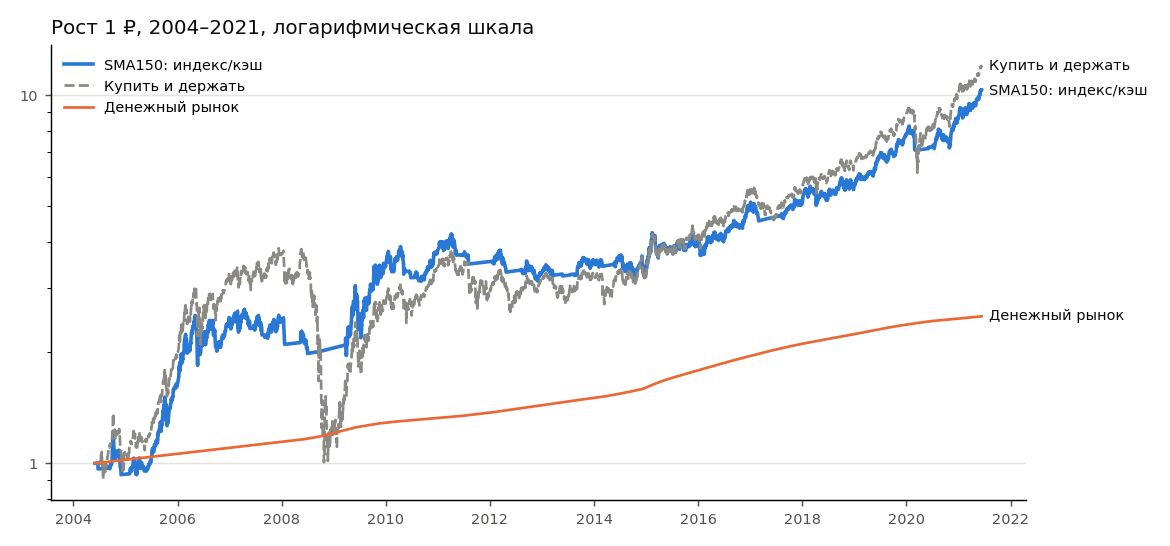
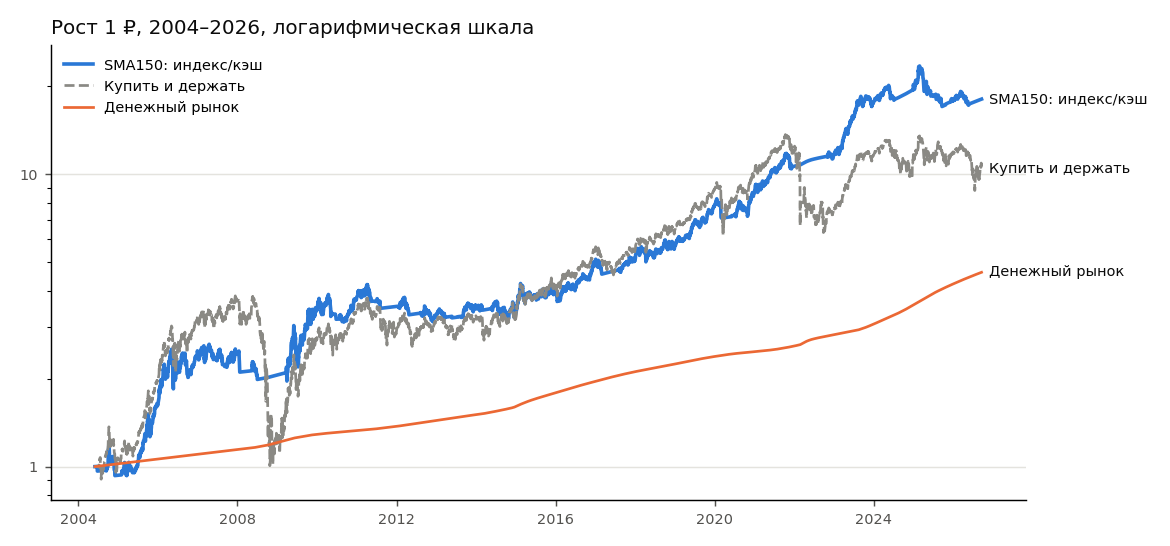
feat: проверка на данных 2021–2026, учёт сплитов, ключевая ставка до 2026, моментум выключен
Claude-Session: https://claude.ai/code/session_01Gvh3BNu2sLBrMCH2KCLBQt

diff --git a/research/report.py b/research/report.py
@@ -27,7 +27,7 @@ BLUE, GRAY, ORANGE, INK, MUTE = "#2a78d6", "#8a8984", "#eb6834", "#0b0b0b", "#52
 
 
 def fmt_table(rows: list[dict], cols: list[str]) -> str:
-    pct = {"CAGR", "MaxDD", "Vol", "Худший год", "Мес.в плюсе", "Доля в риске"}
+    pct = {"CAGR", "MaxDD", "Vol", "Худший год", "Мес.в плюсе", "Доля в риске", "MaxDD 2021–26"}
     out = ["| " + " | ".join(cols) + " |", "|" + "---|" * len(cols)]
     for r in rows:
         cells = []
@@ -75,7 +75,8 @@ def main() -> None:
     md: list[str] = []
     # ---------- 1. Тайминг индекса, 2004–2021 ----------
     mi = index_only_market()
-    periods = {"2004–2012 (подбор)": ("2004-06-01", "2012-12-31"), "2013–2021 (проверка)": ("2013-01-01", None)}
+    periods = {"2004–2012 (подбор)": ("2004-06-01", "2012-12-31"), "2013–2021.06 (проверка)": ("2013-01-01", "2021-06-11"),
+               "2021.06–2026 (новые данные)": ("2021-06-14", None)}
     strats = [S.buy_hold_index(), S.cash_only()] + [S.index_sma(n) for n in (50, 100, 150, 200, 250)] + \
              [S.index_abs_momentum(n) for n in (63, 126, 252)]
     res_idx = {s.name: run_backtest(s, mi, "2004-06-01") for s in strats}
@@ -85,12 +86,12 @@ def main() -> None:
             sm = summary(r.equity.loc[a:b])
             rows.append({"Стратегия": name, "Период": lab, **sm, "Доля в риске": r.exposure.loc[a:b].mean()})
     rows.sort(key=lambda x: (x["Период"], -x["Calmar"] if x["Calmar"] == x["Calmar"] else 0))
-    md.append("## 1. Тайминг индекса: фонд на индекс ↔ денежный рынок (2004–2021)\n")
+    md.append("## 1. Тайминг индекса: фонд на индекс ↔ денежный рынок (2004–2026)\n")
     md.append(fmt_table(rows, ["Стратегия", "Период", "CAGR", "MaxDD", "Sharpe", "Calmar", "Худший год", "Доля в риске"]))
     line_chart({"SMA150: индекс/кэш": res_idx["Индекс выше SMA150"].equity,
                 "Купить и держать": res_idx["Купить и держать индекс"].equity,
                 "Денежный рынок": res_idx["Только денежный рынок"].equity},
-               "Рост 1 ₽, 2004–2021, логарифмическая шкала", IMG / "index_timing.png")
+               "Рост 1 ₽, 2004–2026, логарифмическая шкала", IMG / "index_timing.png")
     md.append("\n![Тайминг индекса](img/index_timing.png)\n")
 
     # ---------- 2. Акции, 2014–2021 ----------
@@ -101,24 +102,30 @@ def main() -> None:
     res_st = {s.name: run_backtest(s, m, "2014-06-01") for s in stock_strats}
     rows = []
     for name, r in res_st.items():
-        a, b = summary(r.equity.loc[:"2017-12-31"]), summary(r.equity.loc["2018-01-01":])
+        a, b = summary(r.equity.loc[:"2017-12-31"]), summary(r.equity.loc["2018-01-01":"2021-06-11"])
+        c = summary(r.equity.loc["2021-06-14":])
         rows.append({"Стратегия": name, "Sharpe 2014–17": a["Sharpe"], "Sharpe 2018–21": b["Sharpe"],
-                     "CAGR 2014–17": f"{a['CAGR']:.1%}", "CAGR 2018–21": f"{b['CAGR']:.1%}",
-                     "MaxDD": min(a["MaxDD"], b["MaxDD"])})
-    rows.sort(key=lambda x: -(x["Sharpe 2014–17"] + x["Sharpe 2018–21"]))
-    md.append("\n## 2. Стратегии на акциях (2014–2021, без дивидендов)\n")
-    md.append(fmt_table(rows, ["Стратегия", "Sharpe 2014–17", "Sharpe 2018–21", "CAGR 2014–17", "CAGR 2018–21", "MaxDD"]))
+                     "Sharpe 2021–26": c["Sharpe"], "CAGR 2014–17": f"{a['CAGR']:.1%}",
+                     "CAGR 2018–21": f"{b['CAGR']:.1%}", "CAGR 2021–26": f"{c['CAGR']:.1%}",
+                     "MaxDD 2021–26": c["MaxDD"]})
+    rows.sort(key=lambda x: -x["Sharpe 2021–26"])
+    md.append("\n## 2. Стратегии на акциях (2014–2026, без дивидендов)\n")
+    md.append(fmt_table(rows, ["Стратегия", "Sharpe 2014–17", "Sharpe 2018–21", "Sharpe 2021–26", "CAGR 2014–17",
+                               "CAGR 2018–21", "CAGR 2021–26", "MaxDD 2021–26"]))
     mom = res_st["Моментум акций 126д top5"].equity
     line_chart({"Моментум top5": mom, "Индекс (с дивидендами)": res_st["Купить и держать индекс"].equity},
-               "Моментум акций vs индекс, 2014–2021", IMG / "momentum.png")
+               "Моментум акций vs индекс, 2014–2026", IMG / "momentum.png")
     md.append("\n![Моментум](img/momentum.png)\n")
 
     # ---------- 3. Правила вывода ----------
     rules_set = {"без правил": RiskRules(None, 0, None), "только вывод 50% при +15%": RiskRules(None, 0, 0.15, 0.5),
                  "стоп 20% + вывод": RiskRules(0.20, 21, 0.15, 0.5)}
-    cases = {"Тайминг SMA150 (2004–2021)": res_idx["Индекс выше SMA150"].equity,
-             "Купить и держать индекс (2004–2021)": res_idx["Купить и держать индекс"].equity,
-             "Моментум top5 (2014–2021)": mom}
+    cases = {"Тайминг SMA150 (2004–2026)": res_idx["Индекс выше SMA150"].equity,
+             "Купить и держать индекс (2004–2026)": res_idx["Купить и держать индекс"].equity,
+             "Моментум top5 (2014–2026)": mom,
+             "Тайминг SMA150 (2021.06–2026)": res_idx["Индекс выше SMA150"].equity.loc["2021-06-14":],
+             "Купить и держать (2021.06–2026)": res_idx["Купить и держать индекс"].equity.loc["2021-06-14":],
+             "Денежный рынок (2021.06–2026)": res_idx["Только денежный рынок"].equity.loc["2021-06-14":]}
     rows = []
     for cname, e in cases.items():
         r = e.pct_change().fillna(0)

diff --git a/src/tradebot/data.py b/src/tradebot/data.py
@@ -20,10 +20,35 @@ class Market:
         return Market(self.close.loc[:asof], self.value.loc[:asof], self.index.loc[:asof])
 
 
+SPLIT_LOW, SPLIT_HIGH = 0.4, 2.5   # скачок цены за день за этими пределами считаем сплитом/консолидацией
+
+
+def adjust_splits(close: pd.DataFrame) -> tuple[pd.DataFrame, list[tuple]]:
+    """Убирает скачки цены от сплитов (напр. GMKN, TRNFP 2024) и консолидаций (VTBR 2024):
+    цены ДО события умножаются на коэффициент. Возвращает (цены, список событий)."""
+    out, events = close.copy(), []
+    ratio = close / close.ffill().shift(1)
+    for t in close.columns:
+        r = ratio[t]
+        for d, v in r[(r < SPLIT_LOW) | (r > SPLIT_HIGH)].items():
+            if not _looks_like_split(float(v)):
+                continue                      # настоящий обвал/взлёт (напр. POGR 2022) — не трогаем
+            out.loc[:d - pd.Timedelta(days=1), t] *= v
+            events.append((t, d.date(), round(float(v), 4)))
+    return out, events
+
+
+def _looks_like_split(v: float) -> bool:
+    """Коэффициент сплита обычно «круглый»: 2, 3, 5, 10, 100, 1000, 5000…"""
+    f = v if v >= 1 else 1 / v
+    nice = [2, 3, 4, 5, 10, 20, 25, 50, 100, 200, 500, 1000, 2000, 5000, 10000]
+    return any(abs(f / n - 1) < (0.03 if n < 10 else 0.10) for n in nice)
+
+
 def load_market(start: str = "2014-01-01", data_dir: Path = DATA_DIR) -> Market:
     s = pd.read_parquet(data_dir / "shares_daily.parquet")
     s = s[s.date >= start]
-    close = s.pivot(index="date", columns="ticker", values="close").sort_index()
+    close, _ = adjust_splits(s.pivot(index="date", columns="ticker", values="close").sort_index())
     value = s.pivot(index="date", columns="ticker", values="value").reindex(close.index)
     idx = pd.read_parquet(data_dir / "index_daily.parquet")
     idx = idx.reindex(close.index).ffill()

diff --git a/src/tradebot/rates.py b/src/tradebot/rates.py
@@ -21,6 +21,16 @@ KEY_RATE_CHANGES: list[tuple[str, float]] = [
     ("2019-06-17", 7.50), ("2019-07-29", 7.25), ("2019-09-09", 7.00), ("2019-10-28", 6.50),
     ("2019-12-16", 6.25), ("2020-02-10", 6.00), ("2020-04-27", 5.50), ("2020-06-22", 4.50),
     ("2020-07-27", 4.25), ("2021-03-22", 4.50), ("2021-04-26", 5.00), ("2021-06-15", 5.50),
+    ("2021-07-26", 6.50), ("2021-09-13", 6.75), ("2021-10-25", 7.50), ("2021-12-20", 8.50),
+    ("2022-02-14", 9.50), ("2022-02-28", 20.00), ("2022-04-11", 17.00), ("2022-05-04", 14.00),
+    ("2022-05-27", 11.00), ("2022-06-14", 9.50), ("2022-07-25", 8.00), ("2022-09-19", 7.50),
+    ("2023-07-24", 8.50), ("2023-08-15", 12.00), ("2023-09-18", 13.00), ("2023-10-30", 15.00),
+    ("2023-12-18", 16.00), ("2024-07-29", 18.00), ("2024-09-16", 19.00), ("2024-10-28", 21.00),
+    ("2025-06-09", 20.00), ("2025-07-28", 18.00), ("2025-09-15", 17.00), ("2025-10-27", 16.50),
+    ("2025-12-22", 16.00),
+    # 2026: по данным СМИ — пять снижений до 14% к июлю (11.09.2026 сохранена 14%); промежуточные шаги — оценка
+    ("2026-02-16", 15.50), ("2026-03-23", 15.00), ("2026-04-27", 14.75), ("2026-06-08", 14.50),
+    ("2026-07-27", 14.00),
 ]
 
 MONEY_MARKET_FEE = 1.2  # % годовых — расходы фонда денежного рынка (TMON@ ≈ 1,2%)

diff --git a/tests/test_engine.py b/tests/test_engine.py
@@ -92,3 +92,13 @@ def test_overlay_total_wealth_consistent():
     acc, taken, log = apply_overlay(r, RiskRules(None, 0, 0.15, 0.5), 100.0)
     assert len(log) > 0 and taken.iloc[-1] > 0
     assert acc.min() > 0
+
+
+def test_split_adjustment():
+    from tradebot.data import adjust_splits
+    d = pd.bdate_range("2024-01-01", periods=4)
+    c = pd.DataFrame({"GMKN": [15000, 15100, 151, 152], "POGR": [10, 10, 2.3, 2.2]}, index=d)
+    adj, ev = adjust_splits(c)
+    assert [e[0] for e in ev] == ["GMKN"]
+    assert adj["GMKN"].iloc[1] == pytest.approx(151)          # история пересчитана под новый масштаб
+    assert adj["POGR"].iloc[2] == 2.3 and adj["POGR"].iloc[0] == 10   # реальный обвал не маскируется

diff --git a/docs/research-tables.md b/docs/research-tables.md
@@ -1,6 +1,6 @@
 # Таблицы исследования (генерируются автоматически)
 
-## 1. Тайминг индекса: фонд на индекс ↔ денежный рынок (2004–2021)
+## 1. Тайминг индекса: фонд на индекс ↔ денежный рынок (2004–2026)
 
 | Стратегия | Период | CAGR | MaxDD | Sharpe | Calmar | Худший год | Доля в риске |
 |---|---|---|---|---|---|---|---|
@@ -14,45 +14,55 @@
 | Индекс выше SMA100 | 2004–2012 (подбор) | 14.4% | -42.7% | 0.52 | 0.34 | -12.5% | 64.5% |
 | Купить и держать индекс | 2004–2012 (подбор) | 14.1% | -73.8% | 0.43 | 0.19 | -66.9% | 99.0% |
 | Только денежный рынок | 2004–2012 (подбор) | 4.3% | 0.0% | 0.00 | nan | 2.9% | 0.0% |
-| Индекс выше SMA150 | 2013–2021 (проверка) | 14.3% | -14.6% | 0.54 | 0.98 | -6.8% | 81.0% |
-| Моментум индекса 63д vs кэш | 2013–2021 (проверка) | 12.0% | -14.6% | 0.42 | 0.82 | -9.9% | 68.7% |
-| Индекс выше SMA100 | 2013–2021 (проверка) | 13.2% | -18.6% | 0.48 | 0.71 | -3.5% | 79.4% |
-| Купить и держать индекс | 2013–2021 (проверка) | 17.0% | -34.4% | 0.59 | 0.49 | -2.6% | 100.0% |
-| Индекс выше SMA250 | 2013–2021 (проверка) | 10.1% | -25.3% | 0.27 | 0.40 | -13.3% | 85.3% |
-| Индекс выше SMA200 | 2013–2021 (проверка) | 10.1% | -25.7% | 0.27 | 0.39 | -15.6% | 82.4% |
-| Моментум индекса 126д vs кэш | 2013–2021 (проверка) | 10.9% | -34.4% | 0.32 | 0.32 | -6.9% | 71.1% |
-| Индекс выше SMA50 | 2013–2021 (проверка) | 8.0% | -27.4% | 0.15 | 0.29 | -8.0% | 69.4% |
-| Моментум индекса 252д vs кэш | 2013–2021 (проверка) | 9.5% | -34.4% | 0.24 | 0.28 | -12.9% | 77.1% |
-| Только денежный рынок | 2013–2021 (проверка) | 6.8% | 0.0% | 0.00 | nan | 1.5% | 0.0% |
+| Индекс выше SMA150 | 2013–2021.06 (проверка) | 14.3% | -14.6% | 0.54 | 0.98 | -6.8% | 81.0% |
+| Моментум индекса 63д vs кэш | 2013–2021.06 (проверка) | 12.0% | -14.6% | 0.42 | 0.82 | -9.9% | 68.7% |
+| Индекс выше SMA100 | 2013–2021.06 (проверка) | 13.2% | -18.6% | 0.48 | 0.71 | -3.5% | 79.4% |
+| Купить и держать индекс | 2013–2021.06 (проверка) | 17.0% | -34.4% | 0.59 | 0.49 | -2.6% | 100.0% |
+| Индекс выше SMA250 | 2013–2021.06 (проверка) | 10.1% | -25.3% | 0.27 | 0.40 | -13.3% | 85.3% |
+| Индекс выше SMA200 | 2013–2021.06 (проверка) | 10.1% | -25.7% | 0.27 | 0.39 | -15.6% | 82.5% |
+| Моментум индекса 126д vs кэш | 2013–2021.06 (проверка) | 10.9% | -34.4% | 0.32 | 0.32 | -6.9% | 71.1% |
+| Индекс выше SMA50 | 2013–2021.06 (проверка) | 8.0% | -27.4% | 0.15 | 0.29 | -8.0% | 69.4% |
+| Моментум индекса 252д vs кэш | 2013–2021.06 (проверка) | 9.5% | -34.4% | 0.24 | 0.28 | -12.9% | 77.1% |
+| Только денежный рынок | 2013–2021.06 (проверка) | 6.8% | 0.0% | 0.00 | nan | 1.5% | 0.0% |
+| Индекс выше SMA100 | 2021.06–2026 (новые данные) | 15.0% | -18.9% | 0.25 | 0.79 | -1.9% | 54.8% |
+| Моментум индекса 126д vs кэш | 2021.06–2026 (новые данные) | 13.1% | -18.8% | 0.12 | 0.70 | 2.6% | 42.7% |
+| Индекс выше SMA50 | 2021.06–2026 (новые данные) | 11.4% | -18.7% | 0.00 | 0.61 | -11.5% | 57.9% |
+| Моментум индекса 63д vs кэш | 2021.06–2026 (новые данные) | 10.7% | -22.3% | -0.05 | 0.48 | -9.2% | 47.4% |
+| Индекс выше SMA150 | 2021.06–2026 (новые данные) | 11.1% | -27.3% | -0.03 | 0.41 | -10.6% | 57.8% |
+| Индекс выше SMA200 | 2021.06–2026 (новые данные) | 8.3% | -23.0% | -0.23 | 0.36 | -2.0% | 58.0% |
+| Индекс выше SMA250 | 2021.06–2026 (новые данные) | 5.3% | -24.9% | -0.44 | 0.21 | -7.9% | 57.3% |
+| Моментум индекса 252д vs кэш | 2021.06–2026 (новые данные) | 2.8% | -51.4% | -0.31 | 0.05 | -29.8% | 39.5% |
+| Только денежный рынок | 2021.06–2026 (новые данные) | 12.3% | 0.0% | 0.00 | nan | 8.7% | 0.0% |
+| Купить и держать индекс | 2021.06–2026 (новые данные) | -2.8% | -53.9% | -0.34 | -0.05 | -37.8% | 100.0% |
 
 ![Тайминг индекса](img/index_timing.png)
 
 
-## 2. Стратегии на акциях (2014–2021, без дивидендов)
+## 2. Стратегии на акциях (2014–2026, без дивидендов)
 
-| Стратегия | Sharpe 2014–17 | Sharpe 2018–21 | CAGR 2014–17 | CAGR 2018–21 | MaxDD |
-|---|---|---|---|---|---|
-| Моментум акций 126д top5 | 1.07 | 1.12 | 33.6% | 30.8% | -33.5% |
-| Моментум акций 63д top5 | 0.70 | 1.27 | 24.4% | 34.5% | -35.5% |
-| Моментум акций 189д top10 | 0.81 | 1.12 | 24.0% | 27.0% | -32.4% |
-| Моментум акций 252д top10 | 0.84 | 1.07 | 24.1% | 25.8% | -32.6% |
-| Моментум акций 63д top3 | 0.67 | 1.23 | 26.0% | 37.3% | -36.3% |
-| Моментум акций 126д top8 | 0.68 | 1.11 | 21.6% | 27.9% | -34.2% |
-| Моментум акций 126д top10 | 0.71 | 1.06 | 21.8% | 26.5% | -35.2% |
-| Моментум акций 189д top5 | 0.86 | 0.91 | 28.7% | 24.9% | -37.3% |
-| Моментум акций 126д top5, фильтр SMA200 | 1.01 | 0.70 | 30.5% | 18.6% | -33.5% |
-| Моментум акций 252д top8 | 0.72 | 0.95 | 22.3% | 24.1% | -33.8% |
-| Моментум акций 189д top8 | 0.64 | 1.02 | 21.0% | 25.5% | -30.9% |
-| Моментум акций 189д top3 | 1.04 | 0.50 | 39.2% | 15.8% | -47.2% |
-| Моментум акций 63д top8 | 0.52 | 0.98 | 18.7% | 24.2% | -35.4% |
-| Моментум акций 252д top5 | 0.75 | 0.70 | 25.0% | 19.8% | -41.4% |
-| Купить и держать индекс | 0.41 | 1.03 | 15.6% | 25.0% | -34.4% |
-| Моментум акций 63д top10 | 0.44 | 0.94 | 16.6% | 22.8% | -35.9% |
-| Моментум акций 126д top3 | 0.48 | 0.81 | 19.5% | 24.9% | -42.7% |
-| Моментум акций 252д top3 | 0.73 | 0.38 | 27.0% | 12.2% | -46.7% |
-| Равные веса top20 ликвидных | 0.34 | 0.66 | 14.1% | 15.9% | -32.4% |
-| Разворот 5д top5 | 0.13 | 0.31 | 9.5% | 9.8% | -39.6% |
-| Низкая волатильность top10 | -0.34 | 0.68 | 2.0% | 16.8% | -36.3% |
+| Стратегия | Sharpe 2014–17 | Sharpe 2018–21 | Sharpe 2021–26 | CAGR 2014–17 | CAGR 2018–21 | CAGR 2021–26 | MaxDD 2021–26 |
+|---|---|---|---|---|---|---|---|
+| Купить и держать индекс | 0.41 | 1.03 | -0.34 | 15.6% | 25.0% | -2.8% | -53.9% |
+| Моментум акций 126д top5, фильтр SMA200 | 1.01 | 0.70 | -0.46 | 30.5% | 18.6% | 1.0% | -29.4% |
+| Моментум акций 126д top3 | 0.48 | 0.81 | -0.56 | 19.5% | 24.9% | -11.4% | -65.3% |
+| Равные веса top20 ликвидных | 0.34 | 0.66 | -0.68 | 14.1% | 15.9% | -11.6% | -58.0% |
+| Моментум акций 189д top10 | 0.81 | 1.12 | -0.76 | 24.0% | 27.0% | -9.2% | -50.7% |
+| Моментум акций 126д top10 | 0.71 | 1.06 | -0.76 | 21.8% | 26.5% | -9.2% | -52.5% |
+| Моментум акций 63д top8 | 0.52 | 0.98 | -0.77 | 18.7% | 24.2% | -10.2% | -50.8% |
+| Моментум акций 252д top3 | 0.73 | 0.38 | -0.79 | 27.0% | 12.2% | -18.8% | -74.4% |
+| Моментум акций 252д top5 | 0.75 | 0.70 | -0.79 | 25.0% | 19.8% | -13.3% | -63.8% |
+| Моментум акций 189д top5 | 0.86 | 0.91 | -0.80 | 28.7% | 24.9% | -13.9% | -61.3% |
+| Моментум акций 63д top10 | 0.44 | 0.94 | -0.80 | 16.6% | 22.8% | -9.5% | -50.5% |
+| Моментум акций 189д top3 | 1.04 | 0.50 | -0.81 | 39.2% | 15.8% | -18.4% | -74.4% |
+| Моментум акций 126д top5 | 1.07 | 1.12 | -0.81 | 33.6% | 30.8% | -13.7% | -65.3% |
+| Моментум акций 252д top10 | 0.84 | 1.07 | -0.82 | 24.1% | 25.8% | -10.9% | -54.4% |
+| Моментум акций 189д top8 | 0.64 | 1.02 | -0.86 | 21.0% | 25.5% | -12.9% | -61.2% |
+| Моментум акций 63д top5 | 0.70 | 1.27 | -0.87 | 24.4% | 34.5% | -15.3% | -65.2% |
+| Моментум акций 126д top8 | 0.68 | 1.11 | -0.89 | 21.6% | 27.9% | -12.8% | -62.8% |
+| Моментум акций 252д top8 | 0.72 | 0.95 | -0.90 | 22.3% | 24.1% | -13.8% | -62.2% |
+| Моментум акций 63д top3 | 0.67 | 1.23 | -0.93 | 26.0% | 37.3% | -19.8% | -76.4% |
+| Низкая волатильность top10 | -0.34 | 0.68 | -1.07 | 2.0% | 16.8% | -15.5% | -64.2% |
+| Разворот 5д top5 | 0.13 | 0.31 | -1.20 | 9.5% | 9.8% | -30.7% | -86.9% |
 
 ![Моментум](img/momentum.png)
 
@@ -61,12 +71,21 @@
 
 | Стратегия | Правила | На счёте, ₽ | Выведено, ₽ | Минимум на счёте, ₽ | Вложения вернулись |
 |---|---|---|---|---|---|
-| Тайминг SMA150 (2004–2021) | без правил | 1,031,773 | 0 | 93,092 | — |
-| Тайминг SMA150 (2004–2021) | только вывод 50% при +15% | 344,499 | 244,499 | 93,092 | 2010-03-31 |
-| Тайминг SMA150 (2004–2021) | стоп 20% + вывод | 315,686 | 215,686 | 93,092 | 2016-09-30 |
-| Купить и держать индекс (2004–2021) | без правил | 1,198,660 | 0 | 90,531 | — |
-| Купить и держать индекс (2004–2021) | только вывод 50% при +15% | 374,803 | 274,803 | 58,224 | 2015-06-30 |
-| Купить и держать индекс (2004–2021) | стоп 20% + вывод | 410,795 | 310,795 | 90,531 | 2009-09-30 |
-| Моментум top5 (2014–2021) | без правил | 726,921 | 0 | 95,956 | — |
-| Моментум top5 (2014–2021) | только вывод 50% при +15% | 301,215 | 167,113 | 95,956 | 2018-09-28 |
-| Моментум top5 (2014–2021) | стоп 20% + вывод | 263,926 | 134,046 | 95,956 | 2021-03-31 |
+| Тайминг SMA150 (2004–2026) | без правил | 1,806,828 | 0 | 93,092 | — |
+| Тайминг SMA150 (2004–2026) | только вывод 50% при +15% | 451,833 | 374,865 | 93,092 | 2010-03-31 |
+| Тайминг SMA150 (2004–2026) | стоп 20% + вывод | 411,574 | 335,148 | 93,092 | 2016-09-30 |
+| Купить и держать индекс (2004–2026) | без правил | 1,039,903 | 0 | 90,531 | — |
+| Купить и держать индекс (2004–2026) | только вывод 50% при +15% | 324,981 | 275,051 | 58,224 | 2015-06-30 |
+| Купить и держать индекс (2004–2026) | стоп 20% + вывод | 251,484 | 311,067 | 90,531 | 2009-09-30 |
+| Моментум top5 (2014–2026) | без правил | 333,757 | 0 | 95,956 | — |
+| Моментум top5 (2014–2026) | только вывод 50% при +15% | 125,084 | 198,666 | 95,956 | 2018-09-28 |
+| Моментум top5 (2014–2026) | стоп 20% + вывод | 88,547 | 161,693 | 79,934 | 2021-03-31 |
+| Тайминг SMA150 (2021.06–2026) | без правил | 174,284 | 0 | 97,435 | — |
+| Тайминг SMA150 (2021.06–2026) | только вывод 50% при +15% | 130,808 | 37,476 | 97,435 | — |
+| Тайминг SMA150 (2021.06–2026) | стоп 20% + вывод | 130,028 | 37,476 | 97,435 | — |
+| Купить и держать (2021.06–2026) | без правил | 86,342 | 0 | 52,438 | — |
+| Купить и держать (2021.06–2026) | только вывод 50% при +15% | 86,342 | 0 | 52,438 | — |
+| Купить и держать (2021.06–2026) | стоп 20% + вывод | 60,961 | 0 | 44,828 | — |
+| Денежный рынок (2021.06–2026) | без правил | 184,122 | 0 | 100,000 | — |
+| Денежный рынок (2021.06–2026) | только вывод 50% при +15% | 146,034 | 28,564 | 100,000 | — |
+| Денежный рынок (2021.06–2026) | стоп 20% + вывод | 146,034 | 28,564 | 100,000 | — |

diff --git a/docs/research-report.md b/docs/research-report.md
@@ -1,10 +1,10 @@
 # Исследование стратегий: выводы
 
-Дата: 18.09.2026. Полные таблицы: [research-tables.md](research-tables.md). Воспроизвести: `python research/report.py`.
+Дата: 18.09.2026, данные по 17.09.2026. Полные таблицы: [research-tables.md](research-tables.md). Воспроизвести: `python research/report.py`.
 
 ## Как проверяли
 
-- **Данные:** дневные цены Мосбиржи. Индекс полной доходности MCFTR (с дивидендами) за 2004–2021 годы, акции режима TQBR за 2014–2021 годы.
+- **Данные:** дневные цены Мосбиржи. Индекс полной доходности MCFTR (с дивидендами) за 2004–2026 годы, акции режима TQBR за 2014–2026 годы.
 - **Честность проверки:**
   - сигнал считается по закрытию дня, а сделка проходит только на следующий день;
   - учтены комиссии и проскальзывание;
@@ -12,28 +12,30 @@
   - период разделён на две части: на первой выбираем, на второй проверяем. Стратегия, которая хороша только в одной половине, считается случайной.
 - **Издержки:** фонды Т-Капитала — 0% комиссии и 0,03% спред; акции — 0,05% комиссия тарифа «Трейдер» и 0,05% проскальзывание. Расходы фонда на индекс — 0,8% в год.
 
-## Главные выводы
+## Главные выводы (обновлено 18.09.2026 на данных по 17.09.2026)
 
-1. **Тайминг индекса (индекс выше 150-дневной средней → фонд на индекс, иначе → денежный рынок) — это страховка, а не дополнительная прибыль.**
-   - За 2004–2021 годы: ~14,7% годовых против ~15,7% у «купить и держать».
-   - Максимальная просадка −28% против −74% (кризис 2008 года).
-   - На проверочном периоде 2013–2021: 14,3% против 17,0% годовых, просадка −14,6% против −34,4%.
-   - Соседние параметры (100–250 дней) тоже снижают просадку, значит результат не случайная подгонка.
-   - Пример, почему нельзя брать «победителя»: SMA50 была лучшей в 2004–2012 и одной из худших в 2013–2021.
-2. **Моментум акций** (5 акций с лучшим ростом за полгода, раз в месяц):
-   - 31–34% годовых в обеих половинах периода против 16–25% у индекса;
-   - почти все варианты параметров лучше индекса;
-   - но просадки до −33…−47%, дивиденды в расчёте не учтены, история всего 7 лет, нужен капитал от ~300 000 ₽ из-за лотов.
-3. **Не сработали:** краткосрочный разворот, портфель низкой волатильности, фильтр тренда поверх моментума.
-4. **Правило вывода** (раз в квартал вывести 50% прибыли, если капитал вырос на 15%):
-   - вложенные 100 000 ₽ по таймингу индекса вернулись бы к 2010 году;
-   - за это платите сложным процентом: итоговая сумма «на счёте + выведено» примерно вдвое меньше, чем без выводов;
-   - зато выведенное уже нельзя потерять.
-   Стоп-кран на 20% сильнее всего помогает стратегии «купить и держать»: в 2008 году минимум на счёте 90 тыс. ₽ вместо 58 тыс. ₽.
+**Самое важное — свежая проверка на 2021.06–2026 (данных этого периода при выборе стратегий не было):**
+
+| За 2021.06–2026 | Доходность в год | Худшая просадка |
+|---|---|---|
+| Индекс «купить и держать» | **−2,8%** | **−54%** (2022) |
+| Денежный рынок (TMON-подобный) | **+12,3%** | 0% |
+| Тайминг индекса SMA150 (наш «Долгосрочный») | +11,1% | −27% |
+| Моментум акций top5 | −13,7% | −65% |
+
+1. **Тайминг индекса выдержал 2022 год**: перед 24.02.2022 индекс уже был ниже 150-дневной средней — стратегия сидела в денежном рынке и обвал её не задел. Но за весь период она **не обогнала простой денежный рынок** (11,1% против 12,3%) и имела просадку −27% на ложных входах. Её роль подтвердилась — это защита от катастроф, а не источник сверхприбыли. За 2004–2026 в целом: капитал ×18 против ×10 у индекса.
+2. **Моментум акций провалился** на новых данных (−14% в год, просадка −65%), хотя в 2014–2021 был лучшим. Классический пример: стратегия, отлично выглядевшая на истории, сломалась при смене режима рынка (санкции, заморозки, высокая ставка). Учебный портфель моментума **выключен** из бота.
+3. **При ключевой ставке 16–21% денежный рынок был лучшей «стратегией»** 2023–2025 годов. Любая стратегия должна обгонять именно его, а не ноль.
+4. Правило вывода прибыли (50% прибыли при +15% за квартал) за 2021–2026 по таймингу успело вывести 37 тыс. ₽ из 100 тыс. — они уже в безопасности, остальное продолжало работать.
+
+Сплиты и консолидации акций (GMKN, TRNFP, PLZL, VTBR, T и др.) обнаруживаются автоматически и не искажают расчёт; реальные обвалы (напр. POGR 2022) не маскируются.
+
+**Выводы 2004–2021 (до свежей проверки):** тайминг SMA150 — ~14,7% годовых против ~15,7% у индекса при просадке −28% против −74% (2008); моментум акций — 31–34% годовых в 2014–2021.
 
 ## Чего исследование не гарантирует
 
-- **Нет данных после июня 2021 года.** Не проверены обвал и закрытие биржи в 2022 году и период ставки 16–21% в 2023–2025 годах, когда денежный рынок был очень сильным. **Это первое, что проверим, когда GitHub докачает свежую историю.**
+- Акции посчитаны без дивидендов (в 2023–2025 это 7–10% в год) — реальный результат моментума был бы лучше, но всё равно хуже денежного рынка.
+- Ключевая ставка 2026 года — частично оценка (известно: 16% в конце 2025, 14% с июля 2026).
 - «Не уйти в ноль» правила делают вероятнее, но не гарантируют. Резкий обвал за один день (как 24.02.2022, −33%) стоп-кран не остановит: сделка пройдёт уже после падения.
 - Ставки денежного рынка до 2013 года — приближённые оценки.
 - Налог: при продаже с прибылью берётся 13% НДФЛ. Частые переключения фиксируют прибыль раньше.

diff --git a/README.md b/README.md
@@ -9,10 +9,10 @@
 - В будни с 09:50 до 23:55 МСК работает **онлайн-сессия** (GitHub Actions): раз в минуту бот смотрит рынок (MOEX ISS, задержка ~15 мин), принимает решения, совершает виртуальные сделки и пишет короткие комментарии в ленту.
 - Каждые ~3 минуты состояние публикуется в ветку `live`. Страница-дашборд (ветка `site`, GitHub Pages) подтягивает его сама: вкладки портфелей, лента, рекомендации, график.
 - Сводки в 12:00, 15:00, 18:45 и 23:45 МСК: капитал, результат за день и с начала, сделки, рекомендация. Сводки и сделки также приходят в Telegram, если он подключён.
-- Ведутся три портфеля (см. `config/portfolios.toml`):
+- Ведутся два портфеля (см. `config/portfolios.toml`):
   - **Активный** — 1 000 ₽, сделки внутри дня по 10-минутным свечам фонда TMOS@, к закрытию дня — вне рынка. Правило «тела»: прибыль сверх 1 000 ₽ (от +2%) рекомендуется выводить, дальше торговля с тем же телом. Дневной лимит убытка −3%. Статус: эксперимент до проверки на внутридневной истории.
   - **Долгосрочный** — 1 000 ₽. Держит фонд на индекс Мосбиржи (TMOS@), пока индекс выше своей 150-дневной средней, иначе уходит в фонд денежного рынка (TMON@). Оба фонда на Т-Инвестициях торгуются без комиссии брокера. Главный кандидат для будущих реальных денег.
-  - **Учебный: моментум акций** — 300 000 ₽. Раз в месяц покупает 5 акций с лучшим ростом за полгода. Для маленького капитала не подходит: у акций крупные лоты.
+  - ~~Учебный: моментум акций~~ — выключен: провалился на проверке 2021–2026.
 - **Риск-правила:**
   - «стоп-кран»: при просадке больше 20% от пика — 21 торговый день в денежном рынке;
   - **рекомендация вывода**: раз в квартал, если капитал вырос на 15% с прошлой отметки, вывести 50% прибыли сверх отметки. В бумажном режиме вывод «исполняется» автоматически, чтобы статистика была честной.
